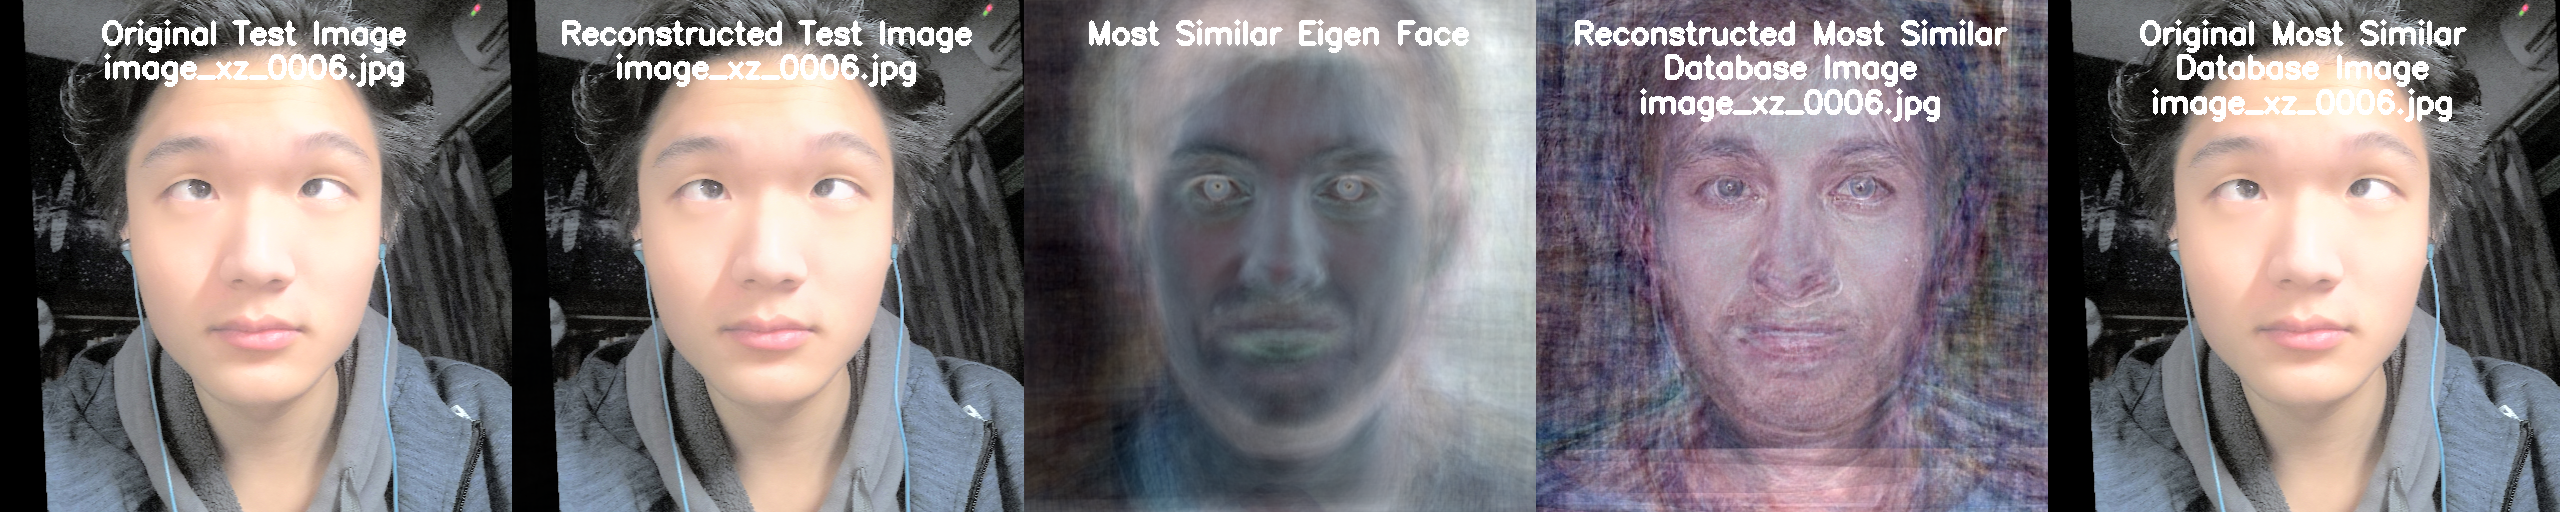
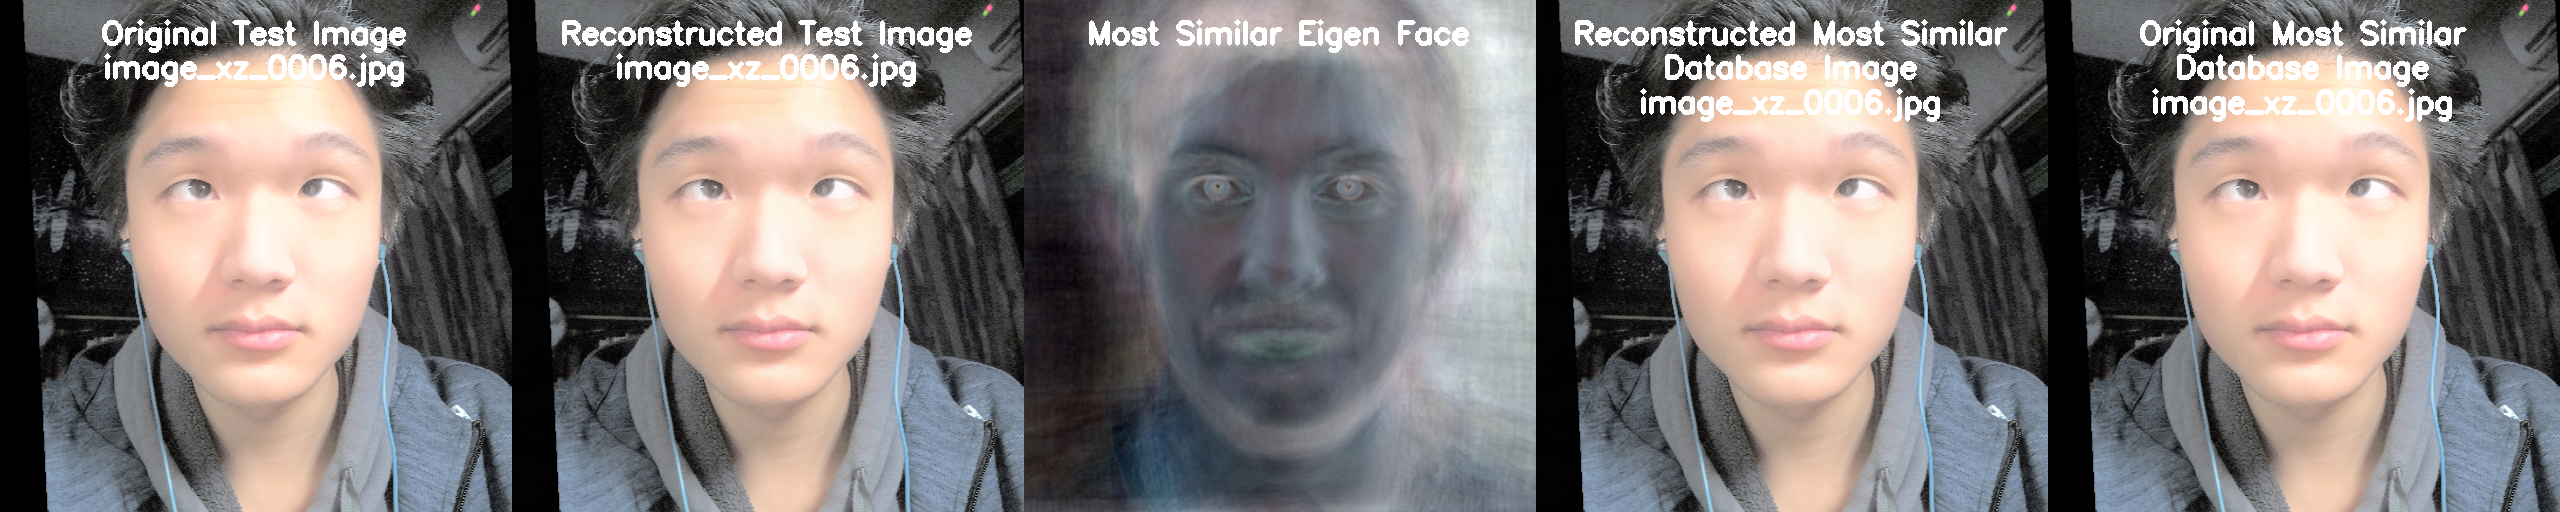
what

Changed region(s): [[0.5938, 0.0, 0.8125, 1.0]]

diff --git a/homework3/eigenface.py b/homework3/eigenface.py
@@ -505,13 +505,14 @@ class EigenFaceUtils:
 
     def updateFaceDict(self) -> dict:
         # compute the face dictionary
-        assert self.pathList is not None and self.batch is not None and self.eigenVectors is not None
+        assert self.pathList is not None and self.batch is not None and self.eigenVectors is not None and self.mean is not None
         # note that names and vectors in self.batch are linked through index
         assert len(self.pathList) == self.batch.shape[0], f"{len(self.pathList)} != {self.batch.shape[0]}"
         for index in tqdm(range(len(self.pathList)), "FaceDict"):
             name = self.pathList[index]
             flat = self.batch[index]
             flat = np.expand_dims(flat, 0)  # viewed as 1 * (width * height * color)
+            flat -= self.mean
             flat = np.transpose(flat)  # (width * height * color) * 1
             # log.info(f"Shape of eigenvectors and flat: {self.eigenVectors.shape}, {flat.shape}")
 
